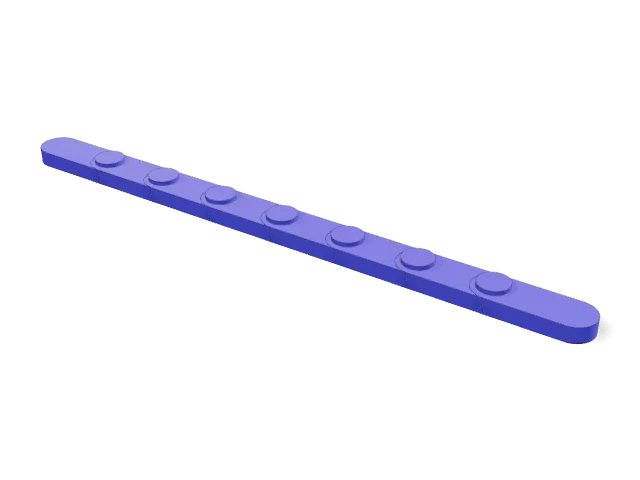
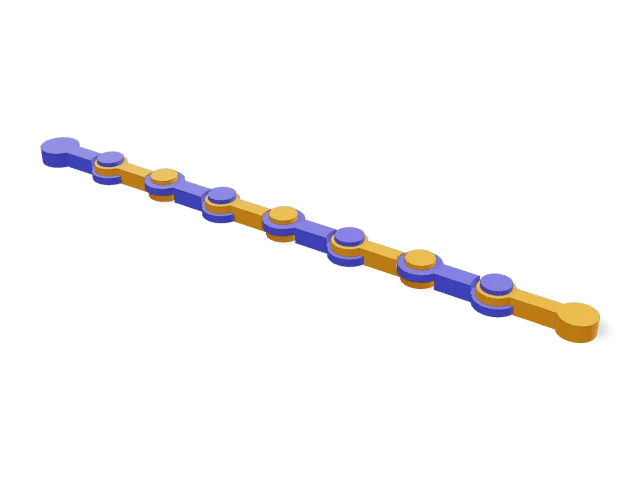
feat: corrente com elos visíveis: placas largas e estreitas alternadas, cintura e duas cores opcionais (#230)
Cada elo é uma peça solta (recorte da meia-sobreposição cobre o maior dos
terminais mais a folga). Testes: um corpo por elo, vizinhos sem contato,
deslocar um elo 90% da folga em 4 direções não encosta, larguras alternadas
e cintura mais estreita que o terminal.

Changed region(s): [[0.0938, 0.2812, 0.9375, 0.7188]]

diff --git a/src/geometry/models/mechanics.ts b/src/geometry/models/mechanics.ts
@@ -186,8 +186,8 @@ export function buildSprocket(ctx: ModelCtx, p: SprocketParams): ModelOutput {
   });
 }
 
-export type ChainParams = { links: number; pitch: number; width: number; thickness: number; gap: number; color: string };
-export const DEFAULT_CHAIN: ChainParams = { links: 8, pitch: 18, width: 10, thickness: 4, gap: 0.3, color: "#6366f1" };
+export type ChainParams = { links: number; pitch: number; width: number; thickness: number; gap: number; color: string; twoColors: boolean; color2: string };
+export const DEFAULT_CHAIN: ChainParams = { links: 8, pitch: 18, width: 10, thickness: 4, gap: 0.3, color: "#6366f1", twoColors: true, color2: "#f59e0b" };
 
 /**
  * Corrente articulada impressa já montada (#230): elos chatos em meia-sobreposição, cada pino atravessa o furo do vizinho com a
@@ -198,21 +198,30 @@ export function buildChain(ctx: ModelCtx, p: ChainParams): ModelOutput {
   return scoped((k) => {
     const warnings: string[] = [];
     const T = p.thickness, W = p.width, g = p.gap;
-    const pinR = Math.max(1.2, W / 2 - 2.2);
+    // placas alternadas: elo largo, elo estreito, elo largo...; o estreito limita o pino e a cabeça
+    const small = 0.42 * W;
+    const pinR = Math.max(1.2, small - 1.8);
     const holeR = pinR + g;
+    const endR = (i: number) => (i % 2 === 0 ? W / 2 : small);
     if (T < 2.4 * 1) warnings.push("Elo fino: abaixo de 2,4 mm ele quebra no pino.");
     if (g < 0.2) warnings.push("Folga menor que 0,2 mm: os elos podem fundir. Use 0,3 mm ou mais.");
     if (p.pitch < W + 2) warnings.push("O passo é curto para a largura: os elos se encostam.");
+    if (pinR + 1 > small) warnings.push("Elo estreito demais para a cabeça do pino: aumente a largura do elo.");
     const links: Solid[] = [];
     for (let i = 0; i < p.links; i++) {
       const x0 = i * p.pitch; // furo (esquerda) deste elo; o pino (direita) fica em x0 + passo
       const last = i === p.links - 1, first = i === 0;
-      const stadium = k(M.CrossSection.hull([k(k(M.CrossSection.circle(W / 2, 48)).translate([x0, 0])), k(k(M.CrossSection.circle(W / 2, 48)).translate([x0 + p.pitch, 0]))]));
-      let body: Solid = k(stadium.extrude(T));
-      const disk = (x: number, z0: number, h: number) => k(k(M.Manifold.cylinder(h, W / 2 + 0.01, W / 2 + 0.01, 48)).translate([x, 0, z0]));
+      const r = endR(i);
+      const end = (x: number) => k(k(M.CrossSection.circle(r, 48)).translate([x, 0]));
+      // cintura: entre os dois terminais a placa afina para 45% da largura do terminal
+      const waist = k(k(M.CrossSection.square([p.pitch, r * 0.9], true)).translate([x0 + p.pitch / 2, 0]));
+      const plate = k(M.CrossSection.union([end(x0), end(x0 + p.pitch), waist]));
+      let body: Solid = k(plate.extrude(T));
+      // o recorte cobre o maior dos dois terminais que se encontram, mais a folga, senão a cintura de um toca o disco do outro
+      const disk = (x: number, z0: number, h: number, other: number) => k(k(M.Manifold.cylinder(h, Math.max(r, other) + g, Math.max(r, other) + g, 48)).translate([x, 0, z0]));
       // meia-sobreposição: a ponta do furo fica só com a metade de cima, a do pino só com a de baixo
-      if (!first) body = k(body.subtract(disk(x0, -0.01, T / 2 + g / 2 + 0.01)));
-      if (!last) body = k(body.subtract(disk(x0 + p.pitch, T / 2 - g / 2, T / 2 + g / 2 + 0.01)));
+      if (!first) body = k(body.subtract(disk(x0, -0.01, T / 2 + g / 2 + 0.01, endR(i - 1))));
+      if (!last) body = k(body.subtract(disk(x0 + p.pitch, T / 2 - g / 2, T / 2 + g / 2 + 0.01, endR(i + 1))));
       if (!first) body = k(body.subtract(k(k(M.Manifold.cylinder(T + 2, holeR, holeR, 40)).translate([x0, 0, -1]))));
       if (!last) {
         const pin = k(k(M.Manifold.cylinder(T + g + 1, pinR, pinR, 40)).translate([x0 + p.pitch, 0, 0]));
@@ -221,10 +230,16 @@ export function buildChain(ctx: ModelCtx, p: ChainParams): ModelOutput {
       }
       links.push(body);
     }
-    const all = k(M.Manifold.union(links));
     const length = (p.links - 1) * p.pitch + W;
     if (length > bedMm()) warnings.push(`A corrente tem ${Math.round(length)} mm: passa da mesa de ${bedMm()} mm. Use menos elos.`);
     warnings.push("Imprima sem suporte e sem brim nos pinos. Se os elos grudarem, aumente a folga de 0,05 em 0,05 mm; depois de esfriar, dobre cada junta.");
+    if (p.twoColors && p.links > 1) {
+      warnings.push("Duas cores: o fatiador troca de filamento a cada camada onde os dois tipos de elo aparecem (gasta mais filamento na torre). Desligue para imprimir em uma cor só.");
+      const wide = k(M.Manifold.union(links.filter((_, i) => i % 2 === 0)));
+      const narrow = k(M.Manifold.union(links.filter((_, i) => i % 2 === 1)));
+      return { models: [{ name: "Corrente", parts: [col("Elos largos", p.color, wide), col("Elos estreitos", p.color2, narrow)] }], warnings };
+    }
+    const all = k(M.Manifold.union(links));
     return { models: [{ name: "Corrente", parts: [col("Corrente", p.color, all)] }], warnings };
   });
 }

diff --git a/src/geometry/models/mechanics.test.ts b/src/geometry/models/mechanics.test.ts
@@ -73,6 +73,8 @@ describe("polia e correia (#230)", () => {
   });
 });
 
+const ONE_COLOR_CHAIN = { ...DEFAULT_CHAIN, twoColors: false };
+
 describe("roda dentada e corrente (#230)", () => {
   test("diâmetro primitivo = passo ÷ sen(π/z)", () => {
     const { warnings } = buildSprocket(ctx(), DEFAULT_SPROCKET);
@@ -86,10 +88,39 @@ describe("roda dentada e corrente (#230)", () => {
     expect(solid(mesh).decompose()).toHaveLength(1);
   });
 
-  test("corrente: os elos ficam soltos entre si (um corpo por elo) graças à folga", () => {
-    const mesh = buildChain(ctx(), DEFAULT_CHAIN).models[0].parts[0].mesh;
+  test("corrente: cada elo é uma peça solta, os vizinhos não se tocam e há folga em volta do pino", () => {
+    const mesh = buildChain(ctx(), ONE_COLOR_CHAIN).models[0].parts[0].mesh;
     valid(mesh);
-    expect(solid(mesh).decompose()).toHaveLength(DEFAULT_CHAIN.links);
+    const links = solid(mesh).decompose().sort((a, b) => a.boundingBox().min[0] - b.boundingBox().min[0]);
+    expect(links).toHaveLength(DEFAULT_CHAIN.links);
+    links.forEach((l) => expect(l.volume()).toBeGreaterThan(50));
+    for (let i = 1; i < links.length; i++) expect(links[i - 1].intersect(links[i]).volume()).toBe(0);
+    // folga: mover um elo 90% da folga (para cima, para baixo ou de lado) ainda não encosta no vizinho
+    const d = DEFAULT_CHAIN.gap * 0.9;
+    for (const v of [[0, 0, d], [0, 0, -d], [d, 0, 0], [0, d, 0]] as const) expect(links[0].translate([...v]).intersect(links[1]).volume(), `deslocamento ${v}`).toBe(0);
+  });
+
+  test("corrente: placas alternadas (larga e estreita) e cintura mais estreita que os terminais", () => {
+    const links = solid(buildChain(ctx(), ONE_COLOR_CHAIN).models[0].parts[0].mesh).decompose().sort((a, b) => a.boundingBox().min[0] - b.boundingBox().min[0]);
+    const width = (l: Solid) => l.boundingBox().max[1] - l.boundingBox().min[1];
+    expect(width(links[0])).toBeCloseTo(DEFAULT_CHAIN.width, 1);
+    expect(width(links[1])).toBeLessThan(width(links[0]) - 1);
+    expect(width(links[2])).toBeCloseTo(width(links[0]), 1);
+    // no meio do elo largo (entre os pinos) a placa é mais fina que no terminal
+    const mid = links[2].boundingBox();
+    const cx = (mid.min[0] + mid.max[0]) / 2;
+    const slice = links[2].intersect(M.Manifold.cube([0.2, 40, 40], true).translate([cx, 0, 0])).boundingBox();
+    expect(slice.max[1] - slice.min[1]).toBeLessThan(width(links[2]) * 0.7);
+  });
+
+  test("corrente em duas cores: elos largos e estreitos em partes separadas, cada uma com metade dos elos", () => {
+    const parts = buildChain(ctx(), DEFAULT_CHAIN).models[0].parts;
+    expect(parts.map((x) => x.name)).toEqual(["Elos largos", "Elos estreitos"]);
+    expect(parts[0].color).not.toBe(parts[1].color);
+    parts.forEach((x) => valid(x.mesh));
+    expect(solid(parts[0].mesh).decompose()).toHaveLength(4);
+    expect(solid(parts[1].mesh).decompose()).toHaveLength(4);
+    expect(solid(parts[0].mesh).intersect(solid(parts[1].mesh)).volume()).toBe(0);
   });
 
   test("folga curta na corrente gera aviso", () => {

diff --git a/src/tools/models/catalog/mechanics.ts b/src/tools/models/catalog/mechanics.ts
@@ -138,7 +138,9 @@ export const MECHANIC_MODELS: ModelDef[] = [
           num("width", "Largura do elo", 6, 24, { step: 0.5 }),
           num("thickness", "Espessura", 2.4, 8, { step: 0.2 }),
           num("gap", "Folga entre os elos", 0.2, 0.6, { step: 0.05, hint: "Se os elos grudarem, aumente de 0,05 em 0,05 mm." }),
-          color("color", "Cor"),
+          bool("twoColors", "Elos largos e estreitos em cores diferentes"),
+          color("color", "Cor dos elos largos"),
+          color("color2", "Cor dos elos estreitos"),
         ],
       },
     ],

diff --git a/tests/e2e/pecas-mecanicas.e2e.ts b/tests/e2e/pecas-mecanicas.e2e.ts
@@ -43,7 +43,7 @@ test("Peças mecânicas: engrenagem com par, planetário, polia, roda dentada e 
   await idle(page);
   await expect(hud(page)).toContainText("×", { timeout: 90_000 });
   await page.getByLabel(/^Folga entre os elos/).fill("0.2");
-  await page.getByLabel(/^Elos/).fill("30");
+  await page.getByLabel("Elos", { exact: true }).fill("30");
   await idle(page);
   await expect(page.getByText(/passa da mesa/)).toBeVisible();
 });

diff --git a/docs/QA-modelos.md b/docs/QA-modelos.md
@@ -67,9 +67,9 @@ impressoras de mesa maior); sem o aviso do app, é **falha**.
 | Chaveiro giratório (spinner) | máximo | ✅ ok | Bambu ✓ · Orca ✓ · Projeto Bambu ✓ | 93 | 31,6 | 1 | – | – |
 | Chaveiro giratório (spinner) | mínimo | ✅ ok | Bambu ✓ · Orca ✓ · Projeto Bambu ✓ | 40 | 10,2 | 1 | – | – |
 | Chaveiro giratório (spinner) | padrão | ✅ ok | Bambu ✓ · Orca ✓ · Projeto Bambu ✓ | 51 | 14,2 | 1 | – | – |
-| Corrente articulada (chain) | máximo | ⚠ aviso | Bambu ✓ · Orca ✓ | – | – | – | – | "Corrente" não cabe na mesa de 256 mm (1224,0 × 24,0 × 9,6 mm); Bambu recusa na mesa de 256 mm do A1 (o app avisa); Orca recusa na mesa de 256 mm do A1 (o app avisa); app: A corrente tem 1184 mm: passa da mesa de 256 mm. Use menos elos.; app: Imprima sem suporte e sem brim nos pinos. Se os elos grudarem, aumente a folga de 0,05 em 0,05 mm; depois de esfriar, dobre cada junta. |
-| Corrente articulada (chain) | mínimo | ✅ ok | Bambu ✓ · Orca ✓ | 4 | 0,7 | 1 | – | app: Imprima sem suporte e sem brim nos pinos. Se os elos grudarem, aumente a folga de 0,05 em 0,05 mm; depois de esfriar, dobre cada junta. |
-| Corrente articulada (chain) | padrão | ✅ ok | Bambu ✓ · Orca ✓ | 24 | 7,8 | 1 | – | app: Imprima sem suporte e sem brim nos pinos. Se os elos grudarem, aumente a folga de 0,05 em 0,05 mm; depois de esfriar, dobre cada junta. |
+| Corrente articulada (chain) | máximo | ⚠ aviso | Bambu ✓ · Orca ✓ · Projeto Bambu ✓ | – | – | – | – | "Corrente" não cabe na mesa de 256 mm (1222,1 × 24,0 × 9,6 mm); Bambu recusa na mesa de 256 mm do A1 (o app avisa); Orca recusa na mesa de 256 mm do A1 (o app avisa); Projeto Bambu recusa na mesa de 256 mm do A1 (o app avisa); app: A corrente tem 1184 mm: passa da mesa de 256 mm. Use menos elos.; app: Imprima sem suporte e sem brim nos pinos. Se os elos grudarem, aumente a folga de 0,05 em 0,05 mm; depois de esfriar, dobre cada junta.; app: Duas cores: o fatiador troca de filamento a cada camada onde os dois tipos de elo aparecem (gasta mais filamento na torre). Desligue para imprimir em uma cor só. |
+| Corrente articulada (chain) | mínimo | ✅ ok | Bambu ✓ · Orca ✓ · Projeto Bambu ✓ | 42 | 10,7 | 1 | – | app: Imprima sem suporte e sem brim nos pinos. Se os elos grudarem, aumente a folga de 0,05 em 0,05 mm; depois de esfriar, dobre cada junta.; app: Duas cores: o fatiador troca de filamento a cada camada onde os dois tipos de elo aparecem (gasta mais filamento na torre). Desligue para imprimir em uma cor só. |
+| Corrente articulada (chain) | padrão | ✅ ok | Bambu ✓ · Orca ✓ · Projeto Bambu ✓ | 78 | 19,9 | 1 | – | app: Imprima sem suporte e sem brim nos pinos. Se os elos grudarem, aumente a folga de 0,05 em 0,05 mm; depois de esfriar, dobre cada junta.; app: Duas cores: o fatiador troca de filamento a cada camada onde os dois tipos de elo aparecem (gasta mais filamento na torre). Desligue para imprimir em uma cor só. |
 | Redutor planetário (planetary) | máximo | ✅ ok | Bambu ✓ · Orca ✓ · Projeto Bambu ✓ | 787 | 267,2 | 1 | – | app: Os dentes só fecham com 4 planetas: usei 4 em vez de 6.; app: Redutor 4,00 : 1 (coroa parada, sol na entrada, porta-satélites na saída): sol 24, 4 planetas de 24, coroa 72 dentes. |
 | Redutor planetário (planetary) | mínimo | ✅ ok | Bambu ✓ · Orca ✓ · Projeto Bambu ✓ | 87 | 20,7 | 1 | – | app: Redutor 4,00 : 1 (coroa parada, sol na entrada, porta-satélites na saída): sol 9, 2 planetas de 9, coroa 27 dentes. |
 | Redutor planetário (planetary) | padrão | ✅ ok | Bambu ✓ · Orca ✓ · Projeto Bambu ✓ | 202 | 52,4 | 1 | – | app: Redutor 4,00 : 1 (coroa parada, sol na entrada, porta-satélites na saída): sol 12, 3 planetas de 12, coroa 36 dentes. |

diff --git a/CHANGELOG.md b/CHANGELOG.md
@@ -4,7 +4,7 @@ Cada versão aparece para a usuária na tela "O que há de novo" depois da atual
 Formato: `## <versão> — <data>` e itens `- …` em linguagem simples.
 
 ## Próxima versão (ainda não lançada)
-- **Peças mecânicas (#230)**: nova família em Modelos prontos › Organização com **engrenagem** (dentes de involuta pelo módulo e número de dentes, com folga para FDM e o par engrenado à distância certa), **redutor planetário** (sol, planetas, coroa e porta-satélites; o app confere se os dentes fecham e avisa a redução), **polia** e **correia dentada fechada** (GT2 e HTD 3M, para TPU), **roda dentada** (ANSI 25, 35, 06B e 08B) e **corrente articulada** impressa já montada. Cada uma traz avisos de impressão e sugestões prontas. São peças de bancada: não foram testadas com carga ou motor forte, e as folgas pedem conferência na sua impressora.
+- **Peças mecânicas (#230)**: nova família em Modelos prontos › Organização com **engrenagem** (dentes de involuta pelo módulo e número de dentes, com folga para FDM e o par engrenado à distância certa), **redutor planetário** (sol, planetas, coroa e porta-satélites; o app confere se os dentes fecham e avisa a redução), **polia** e **correia dentada fechada** (GT2 e HTD 3M, para TPU), **roda dentada** (ANSI 25, 35, 06B e 08B) e **corrente articulada** impressa já montada, com elos largos e estreitos alternados e cintura entre os pinos (em duas cores, se quiser). Cada uma traz avisos de impressão e sugestões prontas. São peças de bancada: não foram testadas com carga ou motor forte, e as folgas pedem conferência na sua impressora.
 
 ## 0.12.6 — 2026-10-16
 - **Calculadora: preços de marketplace com as taxas de 2026 e quatro contas que erravam (#242)**: o canal de venda agora aceita **taxas por faixa de preço** (comissão e taxa fixa que mudam conforme o preço), além do frete obrigatório acima de um valor. A **Shopee** vem de fábrica com a regra de 2026 (20% + R$ 4,50 até R$ 79,99; 14% + R$ 16, R$ 20 ou R$ 26 acima, sem teto) e o **Mercado Livre** clássico e premium com o custo por unidade por faixa abaixo de R$ 79 e o frete por sua conta a partir dele (o R$ 20 é só um exemplo: use o de uma etiqueta real). Cada canal mostra a data em que a regra foi conferida e o que confirmar na central do vendedor, e tudo é editável em Preferências → Canais de venda; quem nunca mexeu nas taxas de fábrica antigas passa para as novas sozinho. Com custo de R$ 40 e margem de 30%, a Shopee sugeria R$ 88,00 (e deixava só 22%); agora sugere R$ 107,15. Também: **Salvar como produto** leva a purga digitada e o kWh medido (antes o produto saía com R$ 25,26 onde a calculadora mostrava R$ 55,58); **Levar para a Calculadora** troca o "Peças na mesa" (antes o custo saía dividido pelas peças da conta anterior); e cor sem filamento cadastrado entra com o preço médio do seu estoque (ou R$ 100/kg), marcada "preço estimado: confira", em vez de R$ 0,00
